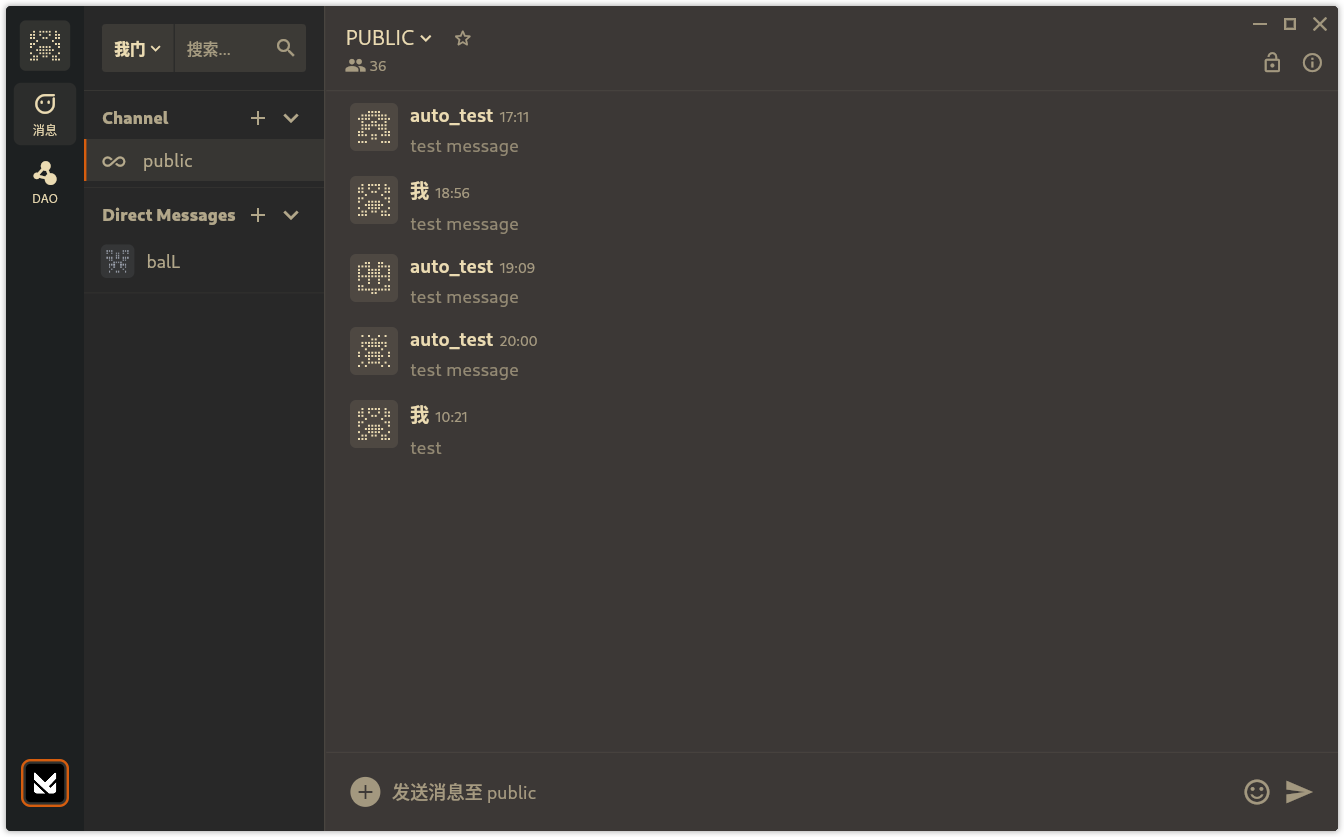
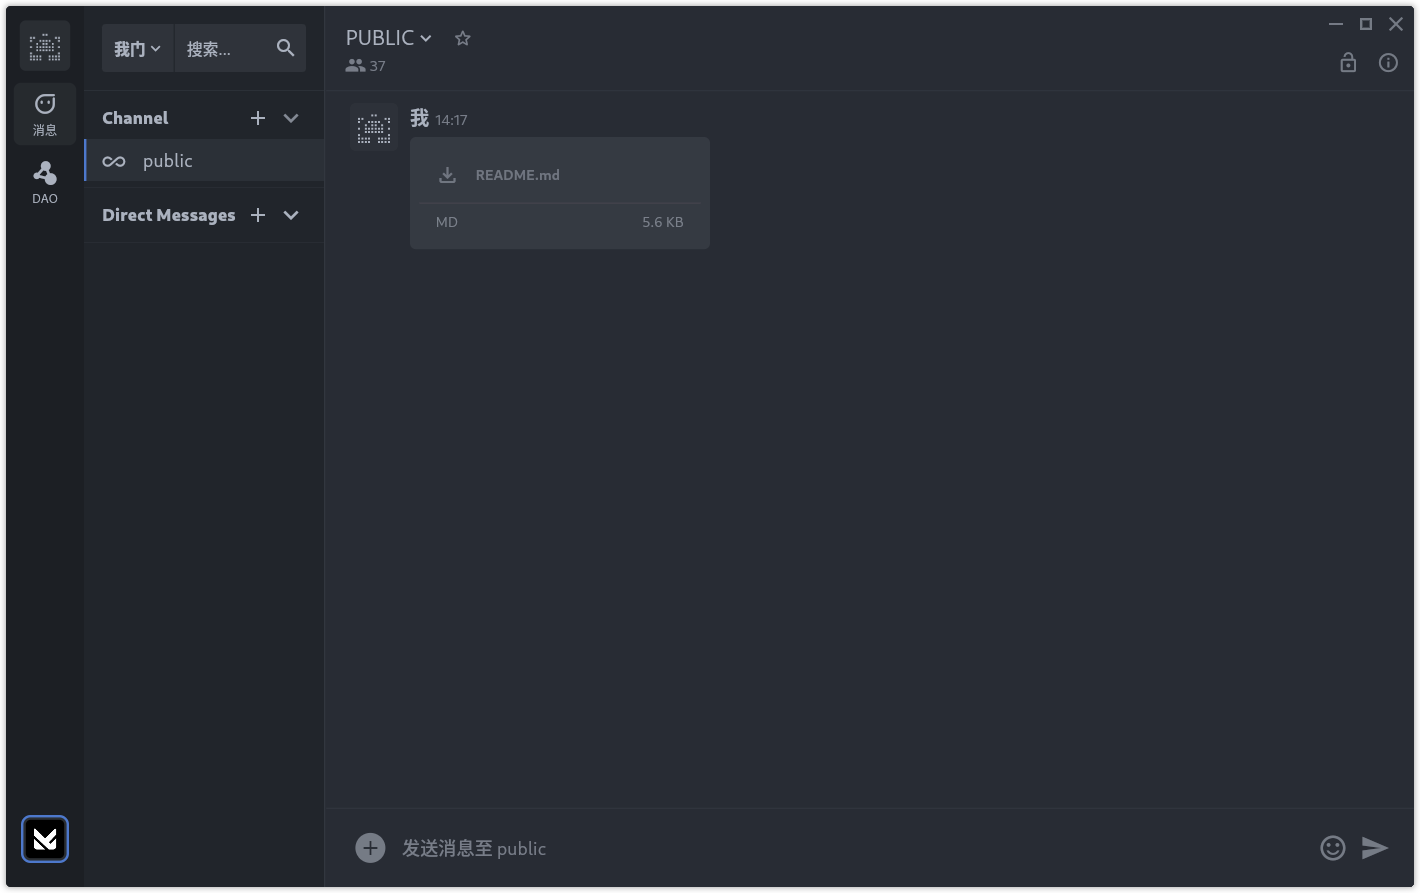
更新主题细节

diff --git a/lib/pages/channel/content/message_download_content.dart b/lib/pages/channel/content/message_download_content.dart
@@ -1,7 +1,9 @@
+import 'package:asyou_app/utils/screen.dart';
 import 'package:flutter/material.dart';
 
 import 'package:matrix/matrix.dart';
 
+import '../../../store/theme.dart';
 import '../../../utils/matrix_sdk_extensions/event_extension.dart';
 
 class MessageDownloadContent extends StatelessWidget {
@@ -12,6 +14,7 @@ class MessageDownloadContent extends StatelessWidget {
 
   @override
   Widget build(BuildContext context) {
+    final constTheme = Theme.of(context).extension<ExtColors>()!;
     final filename = event.content.tryGet<String>('filename') ?? event.body;
     final filetype = (filename.contains('.')
         ? filename.split('.').last.toUpperCase()
@@ -19,53 +22,61 @@ class MessageDownloadContent extends StatelessWidget {
     final sizeString = event.sizeString;
     return InkWell(
       onTap: () => event.saveFile(context),
-      child: Column(
-        crossAxisAlignment: CrossAxisAlignment.start,
-        mainAxisSize: MainAxisSize.min,
-        children: <Widget>[
-          Padding(
-            padding: const EdgeInsets.all(16.0),
-            child: Row(
-              children: [
-                Icon(
-                  Icons.file_download_outlined,
-                  color: textColor,
-                ),
-                const SizedBox(width: 16),
-                Text(
-                  filename,
-                  maxLines: 1,
-                  style: TextStyle(
+      child: Container(
+        width: 250.w,
+        padding: EdgeInsets.all(8.w),
+        decoration: BoxDecoration(
+          borderRadius: BorderRadius.circular(5.w),
+          color: constTheme.centerChannelColor.withOpacity(0.1),
+        ),
+        child: Column(
+          crossAxisAlignment: CrossAxisAlignment.start,
+          mainAxisSize: MainAxisSize.min,
+          children: <Widget>[
+            Padding(
+              padding: const EdgeInsets.all(16.0),
+              child: Row(
+                children: [
+                  Icon(
+                    Icons.file_download_outlined,
                     color: textColor,
-                    fontWeight: FontWeight.bold,
                   ),
-                ),
-              ],
-            ),
-          ),
-          const Divider(height: 1),
-          Padding(
-            padding: const EdgeInsets.symmetric(horizontal: 16.0, vertical: 8),
-            child: Row(
-              children: [
-                Text(
-                  filetype,
-                  style: TextStyle(
-                    color: textColor.withAlpha(150),
-                  ),
-                ),
-                const Spacer(),
-                if (sizeString != null)
+                  const SizedBox(width: 16),
                   Text(
-                    sizeString,
+                    filename,
+                    maxLines: 1,
+                    style: TextStyle(
+                      color: textColor,
+                      fontWeight: FontWeight.bold,
+                    ),
+                  ),
+                ],
+              ),
+            ),
+            const Divider(height: 1),
+            Padding(
+              padding: const EdgeInsets.symmetric(horizontal: 16.0, vertical: 8),
+              child: Row(
+                children: [
+                  Text(
+                    filetype,
                     style: TextStyle(
                       color: textColor.withAlpha(150),
                     ),
                   ),
-              ],
+                  const Spacer(),
+                  if (sizeString != null)
+                    Text(
+                      sizeString,
+                      style: TextStyle(
+                        color: textColor.withAlpha(150),
+                      ),
+                    ),
+                ],
+              ),
             ),
-          ),
-        ],
+          ],
+        ),
       ),
     );
   }

diff --git a/lib/pages/org/org_view.dart b/lib/pages/org/org_view.dart
@@ -189,7 +189,7 @@ class _OrgViewPageState extends State<OrgViewPage> {
                         child: Text(
                           L10n.of(context)!.channel,
                           style: TextStyle(
-                            color: constTheme.sidebarText.withAlpha(180),
+                            color: constTheme.sidebarText,
                             fontWeight: FontWeight.w800,
                             fontSize: 14.w,
                           ),
@@ -210,7 +210,7 @@ class _OrgViewPageState extends State<OrgViewPage> {
                             child: Icon(
                               Icons.add,
                               size: 20.w,
-                              color: constTheme.sidebarText.withAlpha(180),
+                              color: constTheme.sidebarText,
                             ),
                           ),
                           SizedBox(width: 5.w),
@@ -262,7 +262,7 @@ class _OrgViewPageState extends State<OrgViewPage> {
                           style: TextStyle(
                             fontWeight: FontWeight.w800,
                             fontSize: 14.w,
-                            color: constTheme.sidebarText.withAlpha(180),
+                            color: constTheme.sidebarText,
                           ),
                         ),
                       ),
@@ -281,7 +281,7 @@ class _OrgViewPageState extends State<OrgViewPage> {
                             child: Icon(
                               Icons.add,
                               size: 20.w,
-                              color: constTheme.sidebarText.withAlpha(180),
+                              color: constTheme.sidebarText,
                             ),
                           ),
                           SizedBox(width: 5.w),
@@ -296,7 +296,7 @@ class _OrgViewPageState extends State<OrgViewPage> {
                                   ? Icons.keyboard_arrow_down_outlined
                                   : Icons.keyboard_arrow_up_outlined,
                               size: 25.w,
-                              color: constTheme.sidebarText.withAlpha(180),
+                              color: constTheme.sidebarText,
                             ),
                           ),
                         ],

diff --git a/lib/components/chat_list.dart b/lib/components/chat_list.dart
@@ -157,8 +157,7 @@ class _ChatListState extends State<ChatList> {
                     child: Icon(
                       chat.encrypted ? Icons.private_connectivity : Icons.all_inclusive_sharp,
                       size: chat.encrypted ? 24.w : 19.w,
-                      color:
-                          chat.isUnreadOrInvited ? constTheme.sidebarUnreadText : constTheme.sidebarText.withAlpha(180),
+                      color: chat.isUnreadOrInvited ? constTheme.sidebarUnreadText : constTheme.sidebarText,
                     ),
                   ),
                 ),
@@ -169,8 +168,7 @@ class _ChatListState extends State<ChatList> {
                     style: TextStyle(
                       fontSize: 15.w,
                       fontWeight: chat.isUnreadOrInvited ? FontWeight.bold : FontWeight.normal,
-                      color:
-                          chat.isUnreadOrInvited ? constTheme.sidebarUnreadText : constTheme.sidebarText.withAlpha(180),
+                      color: chat.isUnreadOrInvited ? constTheme.sidebarUnreadText : constTheme.sidebarText,
                     ),
                   ),
                 ),

diff --git a/lib/store/theme.dart b/lib/store/theme.dart
@@ -330,22 +330,22 @@ const themes = [
   {
     //11
     "type": 'light',
-    "sidebarBg": "#fafafa",
-    "sidebarText": "#000000",
+    "sidebarBg": "#f8f9fa",
+    "sidebarText": "#8a9199",
     "sidebarUnreadText": "#564f4d",
     "sidebarTextHoverBg": "#ededed",
-    "sidebarTextActiveBorder": "#e7412a",
+    "sidebarTextActiveBorder": "#ffaa33",
     "sidebarTextActiveColor": "#ffffff",
-    "sidebarHeaderBg": "#dbdbdb9e",
-    "sidebarHeaderTextColor": "#564f4d",
+    "sidebarHeaderBg": "#fcfcfc",
+    "sidebarHeaderTextColor": "#95999f",
     "onlineIndicator": "#8da600",
     "mentionBg": "#0ea7b5",
     "awayIndicator": "#ffbc1f",
     "dndIndicator": "#d24b4e",
     "mentionBj": "#ffffff",
     "mentionColor": "#1e325c",
-    "centerChannelBg": "#ffffff",
-    "centerChannelColor": "#000000",
+    "centerChannelBg": "#fcfcfc",
+    "centerChannelColor": "#455359",
     "newMessageSeparator": "#cc8f00",
     "linkColor": "#386fe5",
     "buttonBg": "#1c58d9",

diff --git a/lib/components/jump_to.dart b/lib/components/jump_to.dart
@@ -24,7 +24,7 @@ JumpTo(
     child: TextField(
       key: const Key("topSearch"),
       onTap: toFunc,
-      style: TextStyle(color: constTheme.sidebarText.withAlpha(155), fontSize: 13.w),
+      style: TextStyle(color: constTheme.sidebarText, fontSize: 13.w),
       autofocus: autofocus,
       keyboardType: autofocus ? TextInputType.text : TextInputType.none,
       decoration: InputDecoration(
@@ -32,9 +32,9 @@ JumpTo(
         hintStyle: TextStyle(
           height: 1.5,
           fontSize: 13.w,
-          color: constTheme.sidebarText.withAlpha(155),
+          color: constTheme.sidebarText,
         ),
-        suffixIcon: Icon(Icons.search, size: 20.w, color: constTheme.sidebarText.withAlpha(155)),
+        suffixIcon: Icon(Icons.search, size: 20.w, color: constTheme.sidebarText),
         contentPadding: const EdgeInsets.all(0),
         border: const OutlineInputBorder(borderSide: BorderSide.none),
         label: null,

diff --git a/lib/components/org_card.dart b/lib/components/org_card.dart
@@ -50,11 +50,18 @@ class OrgCard extends StatelessWidget {
               child: Column(
                 mainAxisAlignment: MainAxisAlignment.start,
                 children: [
-                  Image.network(
-                    org.img ?? "",
+                  Container(
                     width: 206.w,
-                    fit: BoxFit.cover,
                     height: 150.w,
+                    decoration: BoxDecoration(
+                      color: org.color != null ? hexToColor(org.color!) : Colors.transparent,
+                    ),
+                    child: Image.network(
+                      org.img ?? "",
+                      width: 206.w,
+                      fit: BoxFit.cover,
+                      height: 150.w,
+                    ),
                   ),
                   Padding(
                     padding: EdgeInsets.symmetric(vertical: 15.w, horizontal: 10.w),

diff --git a/lib/components/user_avatar.dart b/lib/components/user_avatar.dart
@@ -82,8 +82,8 @@ class _UserAvatarWithPopState extends State<UserAvatarWithPop> {
   Widget build(BuildContext context) {
     final constTheme = Theme.of(context).extension<ExtColors>()!;
     final imgw = (widget.avatarWidth * 0.7).toInt();
-    final imgbg = widget.color ?? constTheme.centerChannelColor;
-    final boxBg = widget.bg ?? constTheme.centerChannelColor.withOpacity(0.1);
+    final imgbg = widget.color ?? constTheme.centerChannelColor.withOpacity(0.04);
+    final boxBg = widget.bg ?? constTheme.centerChannelColor.withOpacity(0.04);
     final img = Identicon(fg: [imgbg.red, imgbg.green, imgbg.blue]).generate(getUserShortId(widget.id), size: 50);
     return BasePopupMenu(
       verticalMargin: 5.w,

diff --git a/lib/store/im.dart b/lib/store/im.dart
@@ -183,8 +183,7 @@ List<Org> orgs = [
     domain: "im.tc.asyou.me",
     avater:
         "https://storage.googleapis.com/assets.dework.xyz/uploads/6b8d19b4-cdfc-4251-ba82-de47f7875936/apple-touch-icon-152x152.png",
-    img:
-        "https://storage.googleapis.com/assets.dework.xyz/uploads/6b8d19b4-cdfc-4251-ba82-de47f7875936/apple-touch-icon-152x152.png",
+    img: "https://wetee.app/static/web3/img/logo.png",
     homeUrl: "www.asyou.me/",
     chainUrl: "wss://chain.asyou.me/",
   )

diff --git a/lib/pages/select_org.dart b/lib/pages/select_org.dart
@@ -6,13 +6,12 @@ import 'package:go_router/go_router.dart';
 import 'package:provider/provider.dart';
 import 'package:flutter_gen/gen_l10n/l10n.dart';
 
-import '../models/account.dart';
 import '../objectbox.g.dart';
 import '../router.dart';
 import '../utils/screen.dart';
 import '../apis/apis.dart';
 import '../components/components.dart';
-import '../models/org.dart';
+import '../models/models.dart';
 import '../store/im.dart';
 import '../store/theme.dart';
 

diff --git a/lib/components/name_with_emoji.dart b/lib/components/name_with_emoji.dart
@@ -23,7 +23,7 @@ class WidgetUserNameEmoji extends StatelessWidget {
       text: TextSpan(
         text: name,
         style: TextStyle(
-          color: constTheme.sidebarText.withAlpha(180),
+          color: constTheme.sidebarText,
           fontWeight: FontWeight.normal,
           fontSize: 15.w,
           overflow: TextOverflow.ellipsis,
